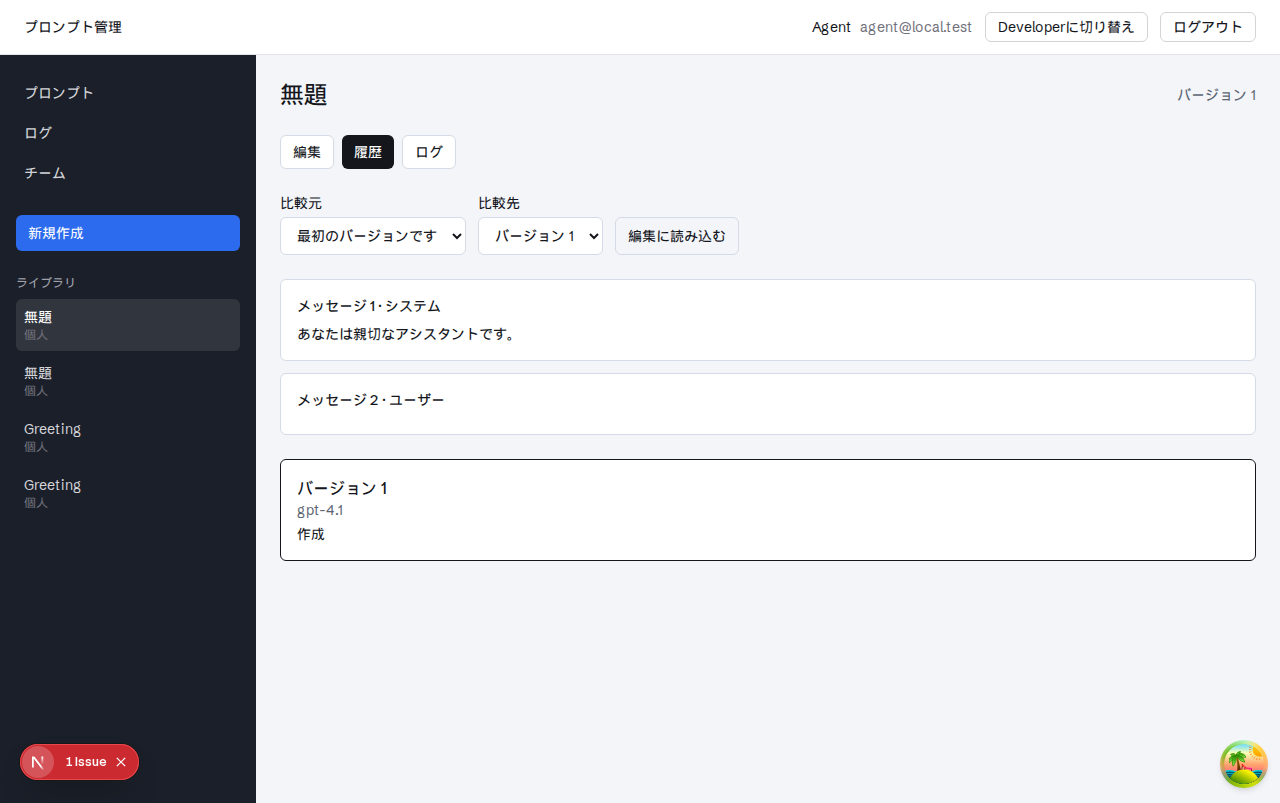
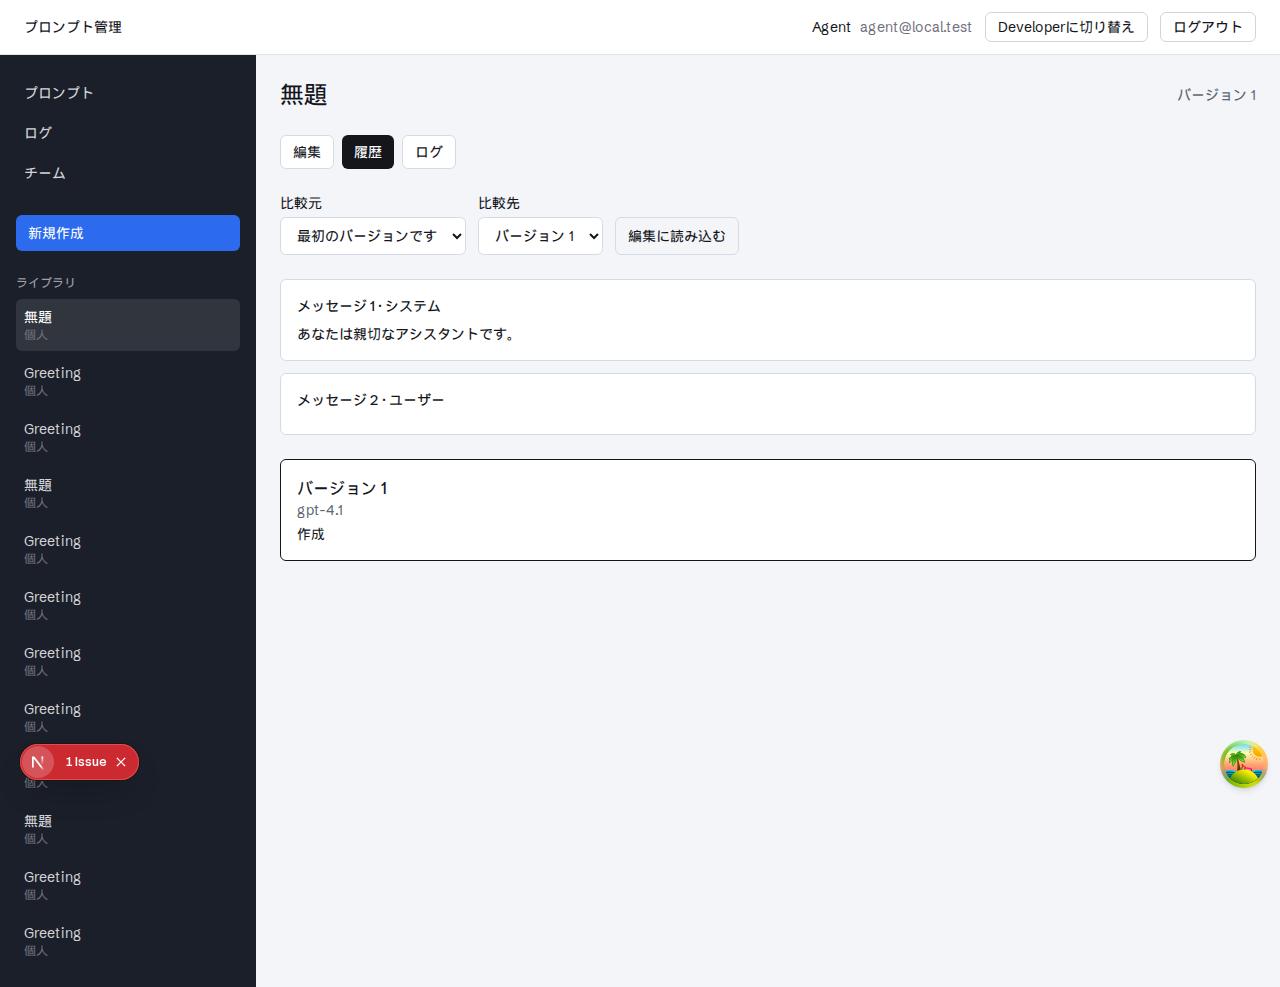
docs(history): recapture a multi-message version diff screenshot
Seed the History e2e with several added, removed, and changed lines
across system, user, and assistant so the PR screenshot is readable.

diff --git a/e2e/prompt.spec.ts b/e2e/prompt.spec.ts
@@ -21,27 +21,93 @@ test("creates a prompt with system and user messages", async ({ page }) => {
   await expect(page.getByText(/gpt-4.1 の実行を記録/)).toBeVisible();
 });
 
+const systemV2 = [
+  "You are a helpful writing coach.",
+  "Keep answers short.",
+  "Use plain language.",
+  "Do not invent citations.",
+].join("\n");
+
+const userV2 = [
+  "Rewrite this email.",
+  "",
+  "Hi team,",
+  "The launch is delayed.",
+  "Please wait.",
+].join("\n");
+
+const systemV3 = [
+  "You are a strict writing coach.",
+  "Keep answers short.",
+  "Prefer concrete examples.",
+  "Do not invent citations.",
+  "Ask one follow-up question.",
+].join("\n");
+
+const userV3 = [
+  "Rewrite this email in a calmer tone.",
+  "",
+  "Hi team,",
+  "The launch moved to Friday.",
+  "Please wait for the new date.",
+  "Thanks.",
+].join("\n");
+
+const assistantV3 = [
+  "Sure — here is a calmer draft.",
+  "Hi team, the launch is now Friday.",
+  "I will send the new timeline today.",
+].join("\n");
+
 test("compares versions with a colored line diff", async ({ page }) => {
   await page.goto("/");
   await page.getByRole("button", { name: "新規作成" }).click();
   await page.getByLabel("プロンプト名").fill("Greeting");
-  await page.getByLabel("ユーザープロンプト").fill("Say hello");
+  await page.getByLabel("システムプロンプト").fill(systemV2);
+  await page.getByLabel("ユーザープロンプト").fill(userV2);
   await page.getByRole("button", { name: "バージョンを保存" }).click();
   await expect(page.getByText("バージョン 2")).toBeVisible();
 
-  await page.getByLabel("ユーザープロンプト").fill("Say hello there");
+  await page.getByLabel("システムプロンプト").fill(systemV3);
+  await page.getByLabel("ユーザープロンプト").fill(userV3);
+  await page.getByRole("button", { name: "メッセージを追加" }).click();
+  await page.getByRole("combobox", { name: "役割" }).nth(2).selectOption({
+    label: "アシスタント",
+  });
+  await page.getByLabel("アシスタントプロンプト").fill(assistantV3);
   await page.getByRole("button", { name: "バージョンを保存" }).click();
   await expect(page.getByText("バージョン 3")).toBeVisible();
 
   await page.getByRole("button", { name: "履歴" }).click();
+  await expect(
+    page.getByRole("button", { name: "バージョン 3" }),
+  ).toBeVisible();
   await expect(page.getByLabel("比較先")).toHaveValue("3");
   await expect(page.getByLabel("比較元")).toHaveValue("2");
-  await expect(page.locator('[data-diff-type="remove"]')).toContainText(
-    "Say hello",
-  );
-  await expect(page.locator('[data-diff-type="add"]')).toContainText(
-    "Say hello there",
-  );
+  const removed = page.locator('[data-diff-type="remove"]');
+  const added = page.locator('[data-diff-type="add"]');
+  await expect(
+    removed.filter({ hasText: "You are a helpful writing coach." }),
+  ).toBeVisible();
+  await expect(
+    removed.filter({ hasText: "Use plain language." }),
+  ).toBeVisible();
+  await expect(
+    removed.filter({ hasText: "The launch is delayed." }),
+  ).toBeVisible();
+  await expect(
+    added.filter({ hasText: "You are a strict writing coach." }),
+  ).toBeVisible();
+  await expect(
+    added.filter({ hasText: "Prefer concrete examples." }),
+  ).toBeVisible();
+  await expect(
+    added.filter({ hasText: "The launch moved to Friday." }),
+  ).toBeVisible();
+  await expect(
+    added.filter({ hasText: "Sure — here is a calmer draft." }),
+  ).toBeVisible();
+  await expect(page.getByText("追加", { exact: true })).toBeVisible();
 
   await page.screenshot({
     path: "e2e/output/prompt-history-diff.png",

diff --git a/src/components/prompt-history.tsx b/src/components/prompt-history.tsx
@@ -4,6 +4,7 @@ import { useQuery } from "@tanstack/react-query";
 import { useState } from "react";
 import { PromptDiffView, VersionMessages } from "@/components/prompt-diff-view";
 import {
+  type CompareRange,
   compareRangeForVersion,
   defaultCompareRange,
   diffPromptVersions,
@@ -22,11 +23,11 @@ export function PromptHistory({
   onLoadIntoEditor: (detail: PromptVersionDetail) => void;
 }) {
   const versionNumbers = versions.map((version) => version.versionNumber);
-  const initial = defaultCompareRange(versions);
-  const [toVersion, setToVersion] = useState(initial?.to ?? 1);
-  const [fromVersion, setFromVersion] = useState<number | null>(
-    initial?.from ?? null,
-  );
+  const defaultRange = defaultCompareRange(versions);
+  const [override, setOverride] = useState<CompareRange | null>(null);
+  const range = override ?? defaultRange ?? { from: null, to: 1 };
+  const fromVersion = range.from;
+  const toVersion = range.to;
 
   const fromQuery = useQuery({
     ...promptVersionDetailQuery.options(promptId, fromVersion ?? 0),
@@ -42,9 +43,7 @@ export function PromptHistory({
       : null;
 
   function selectVersion(versionNumber: number) {
-    const range = compareRangeForVersion(versionNumber, versionNumbers);
-    setToVersion(range.to);
-    setFromVersion(range.from);
+    setOverride(compareRangeForVersion(versionNumber, versionNumbers));
   }
 
   return (
@@ -57,7 +56,10 @@ export function PromptHistory({
             value={fromVersion ?? ""}
             onChange={(event) => {
               const value = event.target.value;
-              setFromVersion(value === "" ? null : Number(value));
+              setOverride({
+                from: value === "" ? null : Number(value),
+                to: toVersion,
+              });
             }}
           >
             <option value="">{t("prompt.noPreviousVersion")}</option>
